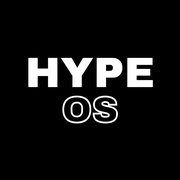
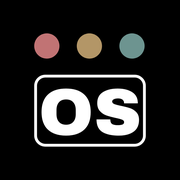
Hivatalos új logó: HYPE + három színes pötty + keretes OS
A felhasználó csatolta a hivatalos logó három változatát - ezek
kerültek be mindenhova, a képekről pixelre lemért arányokkal:

- Fejléc-logó (Logo.tsx): tömör "HYPE", mellette a védjegy - három
  színes pötty (#c17374, #b39667, #6d9490) egy vékony keretes,
  lekerekített doboz felett, a dobozban tömör "OS". A szöveg és a
  keret currentColor (világoson fekete, sötéten fehér), a pöttyök fix
  színűek mindkét témán - ahogy a csatolt fekete/fehér változatokon.
- Oldal-ikonok: fekete négyzeten a védjegy (pöttyök + OS-doboz)
  középre - icon.svg, favicon.ico (RGBA, 16-64), apple-icon.png és a
  két szabvány apple-touch-icon (180x180), pixelre ellenőrzött fekete
  szélekkel.

Helyben teljes `next build` lefuttatva - hibátlanul végigment.

Claude-Session: https://claude.ai/code/session_012nDs8YqfPBhJEduNwZa2Vh

Changed region(s): [[0.1389, 0.1667, 0.8611, 0.8333]]

diff --git a/frontend/components/Logo.tsx b/frontend/components/Logo.tsx
@@ -1,35 +1,27 @@
 /** A "HYPE OS" szöveges logó - a Sidebar ÉS a MobileNav fejlécében is
  * ugyanez, hogy a fiók megnyitva is a szokott felületnek hasson.
  *
- * A hivatalos logó vektoros újraépítése (a felhasználó csatolt képei
- * alapján): tömör, vastag "HYPE" felirat + KONTÚROS "OS", keret nélkül.
- * Betűkörvonalakká alakítva - így nem függ a betöltött betűtípusoktól, és
- * nincs mögötte háttér. A színe currentColor: a szülő szövegszínét veszi
- * fel, ezért világos témán a fekete, sötét témán a fehér változat jelenik
- * meg külön képfájl nélkül. */
+ * A HIVATALOS logó vektoros újraépítése (a felhasználó csatolt képeiről
+ * pixelre lemérve): tömör "HYPE", mellette a védjegy - három színes pötty
+ * (piros/arany/zöldeskék) egy vékony keretes, lekerekített doboz felett,
+ * a dobozban tömör "OS". A szöveg és a keret currentColor: világos témán
+ * fekete, sötét témán fehér - a pöttyök színe mindkét témán ugyanaz a fix
+ * három szín, ahogy az eredeti képeken. */
 export function Logo({ className = "h-6" }: { className?: string }) {
   return (
     <svg
-      viewBox="0 0 4943 812"
+      viewBox="0 0 3896 777"
       fill="none"
       className={`${className} w-auto text-text-primary`}
       role="img"
       aria-label="HYPE OS"
     >
-      {/* HYPE - tömör */}
-      <path
-        fill="currentColor"
-        d="M600 750V489H357V750H136V62H357V313H600V62H821V750Z M1396 750H1175V483L902 62H1156L1288 291H1292L1424 62H1665L1396 483Z M2353 288V301Q2353 365 2325.0 417.0Q2297 469 2247.0 498.5Q2197 528 2133 528H1968V750H1747V62H2133Q2197 62 2247.0 91.5Q2297 121 2325.0 172.5Q2353 224 2353 288ZM1968 367H2059Q2094 367 2111.5 349.0Q2129 331 2129 300V292Q2129 260 2111.5 242.5Q2094 225 2059 225H1968Z M2469 62H3064V227H2690V322H3010V480H2690V585H3071V750H2469Z"
-      />
-      {/* OS - csak körvonal */}
-      <g transform="translate(3544 750) scale(0.86)">
-        <path
-          fill="none"
-          stroke="currentColor"
-          strokeWidth="36"
-          d="M788 -344Q788 -170 691.0 -79.0Q594 12 416 12Q238 12 141.5 -78.5Q45 -169 45 -344Q45 -519 141.5 -609.5Q238 -700 416 -700Q594 -700 691.0 -609.0Q788 -518 788 -344ZM271 -376V-312Q271 -239 308.0 -196.0Q345 -153 416 -153Q487 -153 524.5 -196.0Q562 -239 562 -312V-376Q562 -449 524.5 -492.0Q487 -535 416 -535Q345 -535 308.0 -492.0Q271 -449 271 -376Z M1500 -488V-476H1293V-480Q1293 -510 1271.0 -530.0Q1249 -550 1204 -550Q1160 -550 1136.5 -537.0Q1113 -524 1113 -505Q1113 -478 1145.0 -465.0Q1177 -452 1248 -438Q1331 -421 1384.5 -402.5Q1438 -384 1478.0 -342.0Q1518 -300 1519 -228Q1519 -106 1436.5 -47.0Q1354 12 1216 12Q1055 12 965.5 -42.0Q876 -96 876 -233H1085Q1085 -181 1112.0 -163.5Q1139 -146 1196 -146Q1238 -146 1265.5 -155.0Q1293 -164 1293 -192Q1293 -217 1262.5 -229.5Q1232 -242 1163 -256Q1079 -274 1024.0 -293.5Q969 -313 928.0 -358.0Q887 -403 887 -480Q887 -593 974.5 -646.5Q1062 -700 1196 -700Q1328 -700 1413.0 -646.5Q1498 -593 1500 -488Z"
-        />
-      </g>
+      <path fill="currentColor" d="M565.52 729.28V468.28H322.52V729.28H101.52V41.27999999999997H322.52V292.28H565.52V41.27999999999997H786.52V729.28Z M1361.52 729.28H1140.52V462.28L867.52 41.27999999999997H1121.52L1253.52 270.28H1257.52L1389.52 41.27999999999997H1630.52L1361.52 462.28Z M2318.52 267.28V280.28Q2318.52 344.28 2290.52 396.28Q2262.52 448.28 2212.52 477.78Q2162.52 507.28 2098.52 507.28H1933.52V729.28H1712.52V41.27999999999997H2098.52Q2162.52 41.27999999999997 2212.52 70.77999999999997Q2262.52 100.27999999999997 2290.52 151.77999999999997Q2318.52 203.27999999999997 2318.52 267.28ZM1933.52 346.28H2024.52Q2059.52 346.28 2077.02 328.28Q2094.52 310.28 2094.52 279.28V271.28Q2094.52 239.27999999999997 2077.02 221.77999999999997Q2059.52 204.27999999999997 2024.52 204.27999999999997H1933.52Z M2434.52 41.27999999999997H3029.52V206.27999999999997H2655.52V301.28H2975.52V459.28H2655.52V564.28H3036.52V729.28H2434.52Z"/>
+<circle cx="3240" cy="111" r="80" fill="#c17374"/>
+<circle cx="3511" cy="111" r="80" fill="#b39667"/>
+<circle cx="3781" cy="111" r="80" fill="#6d9490"/>
+<rect x="3169" y="302" width="691" height="439" rx="62" stroke="currentColor" strokeWidth="18"/>
+<path fill="currentColor" d="M3518.994 530.448Q3518.994 603.528 3478.254 641.748Q3437.514 679.968 3362.754 679.968Q3287.994 679.968 3247.464 641.958Q3206.934 603.948 3206.934 530.448Q3206.934 456.948 3247.464 418.938Q3287.994 380.928 3362.754 380.928Q3437.514 380.928 3478.254 419.148Q3518.994 457.368 3518.994 530.448ZM3301.8540000000003 517.008V543.888Q3301.8540000000003 574.548 3317.3940000000002 592.608Q3332.934 610.668 3362.754 610.668Q3392.574 610.668 3408.324 592.608Q3424.074 574.548 3424.074 543.888V517.008Q3424.074 486.348 3408.324 468.288Q3392.574 450.228 3362.754 450.228Q3332.934 450.228 3317.3940000000002 468.288Q3301.8540000000003 486.348 3301.8540000000003 517.008Z M3818.034 469.968V475.00800000000004H3731.094V473.328Q3731.094 460.728 3721.8540000000003 452.328Q3712.614 443.928 3693.7140000000004 443.928Q3675.2340000000004 443.928 3665.3640000000005 449.38800000000003Q3655.494 454.848 3655.494 462.828Q3655.494 474.168 3668.934 479.628Q3682.3740000000003 485.08799999999997 3712.1940000000004 490.968Q3747.054 498.108 3769.5240000000003 505.87800000000004Q3791.994 513.648 3808.794 531.288Q3825.594 548.928 3826.014 579.168Q3826.014 630.408 3791.3640000000005 655.188Q3756.7140000000004 679.968 3698.7540000000004 679.968Q3631.134 679.968 3593.544 657.288Q3555.954 634.608 3555.954 577.068H3643.7340000000004Q3643.7340000000004 598.908 3655.0740000000005 606.258Q3666.414 613.608 3690.3540000000003 613.608Q3707.994 613.608 3719.544 609.828Q3731.094 606.048 3731.094 594.288Q3731.094 583.788 3718.284 578.538Q3705.474 573.288 3676.494 567.408Q3641.2140000000004 559.848 3618.1140000000005 551.6579999999999Q3595.014 543.468 3577.794 524.568Q3560.574 505.668 3560.574 473.328Q3560.574 425.868 3597.324 403.398Q3634.074 380.928 3690.3540000000003 380.928Q3745.7940000000003 380.928 3781.4940000000006 403.398Q3817.1940000000004 425.868 3818.034 469.968Z"/>
     </svg>
   );
 }
